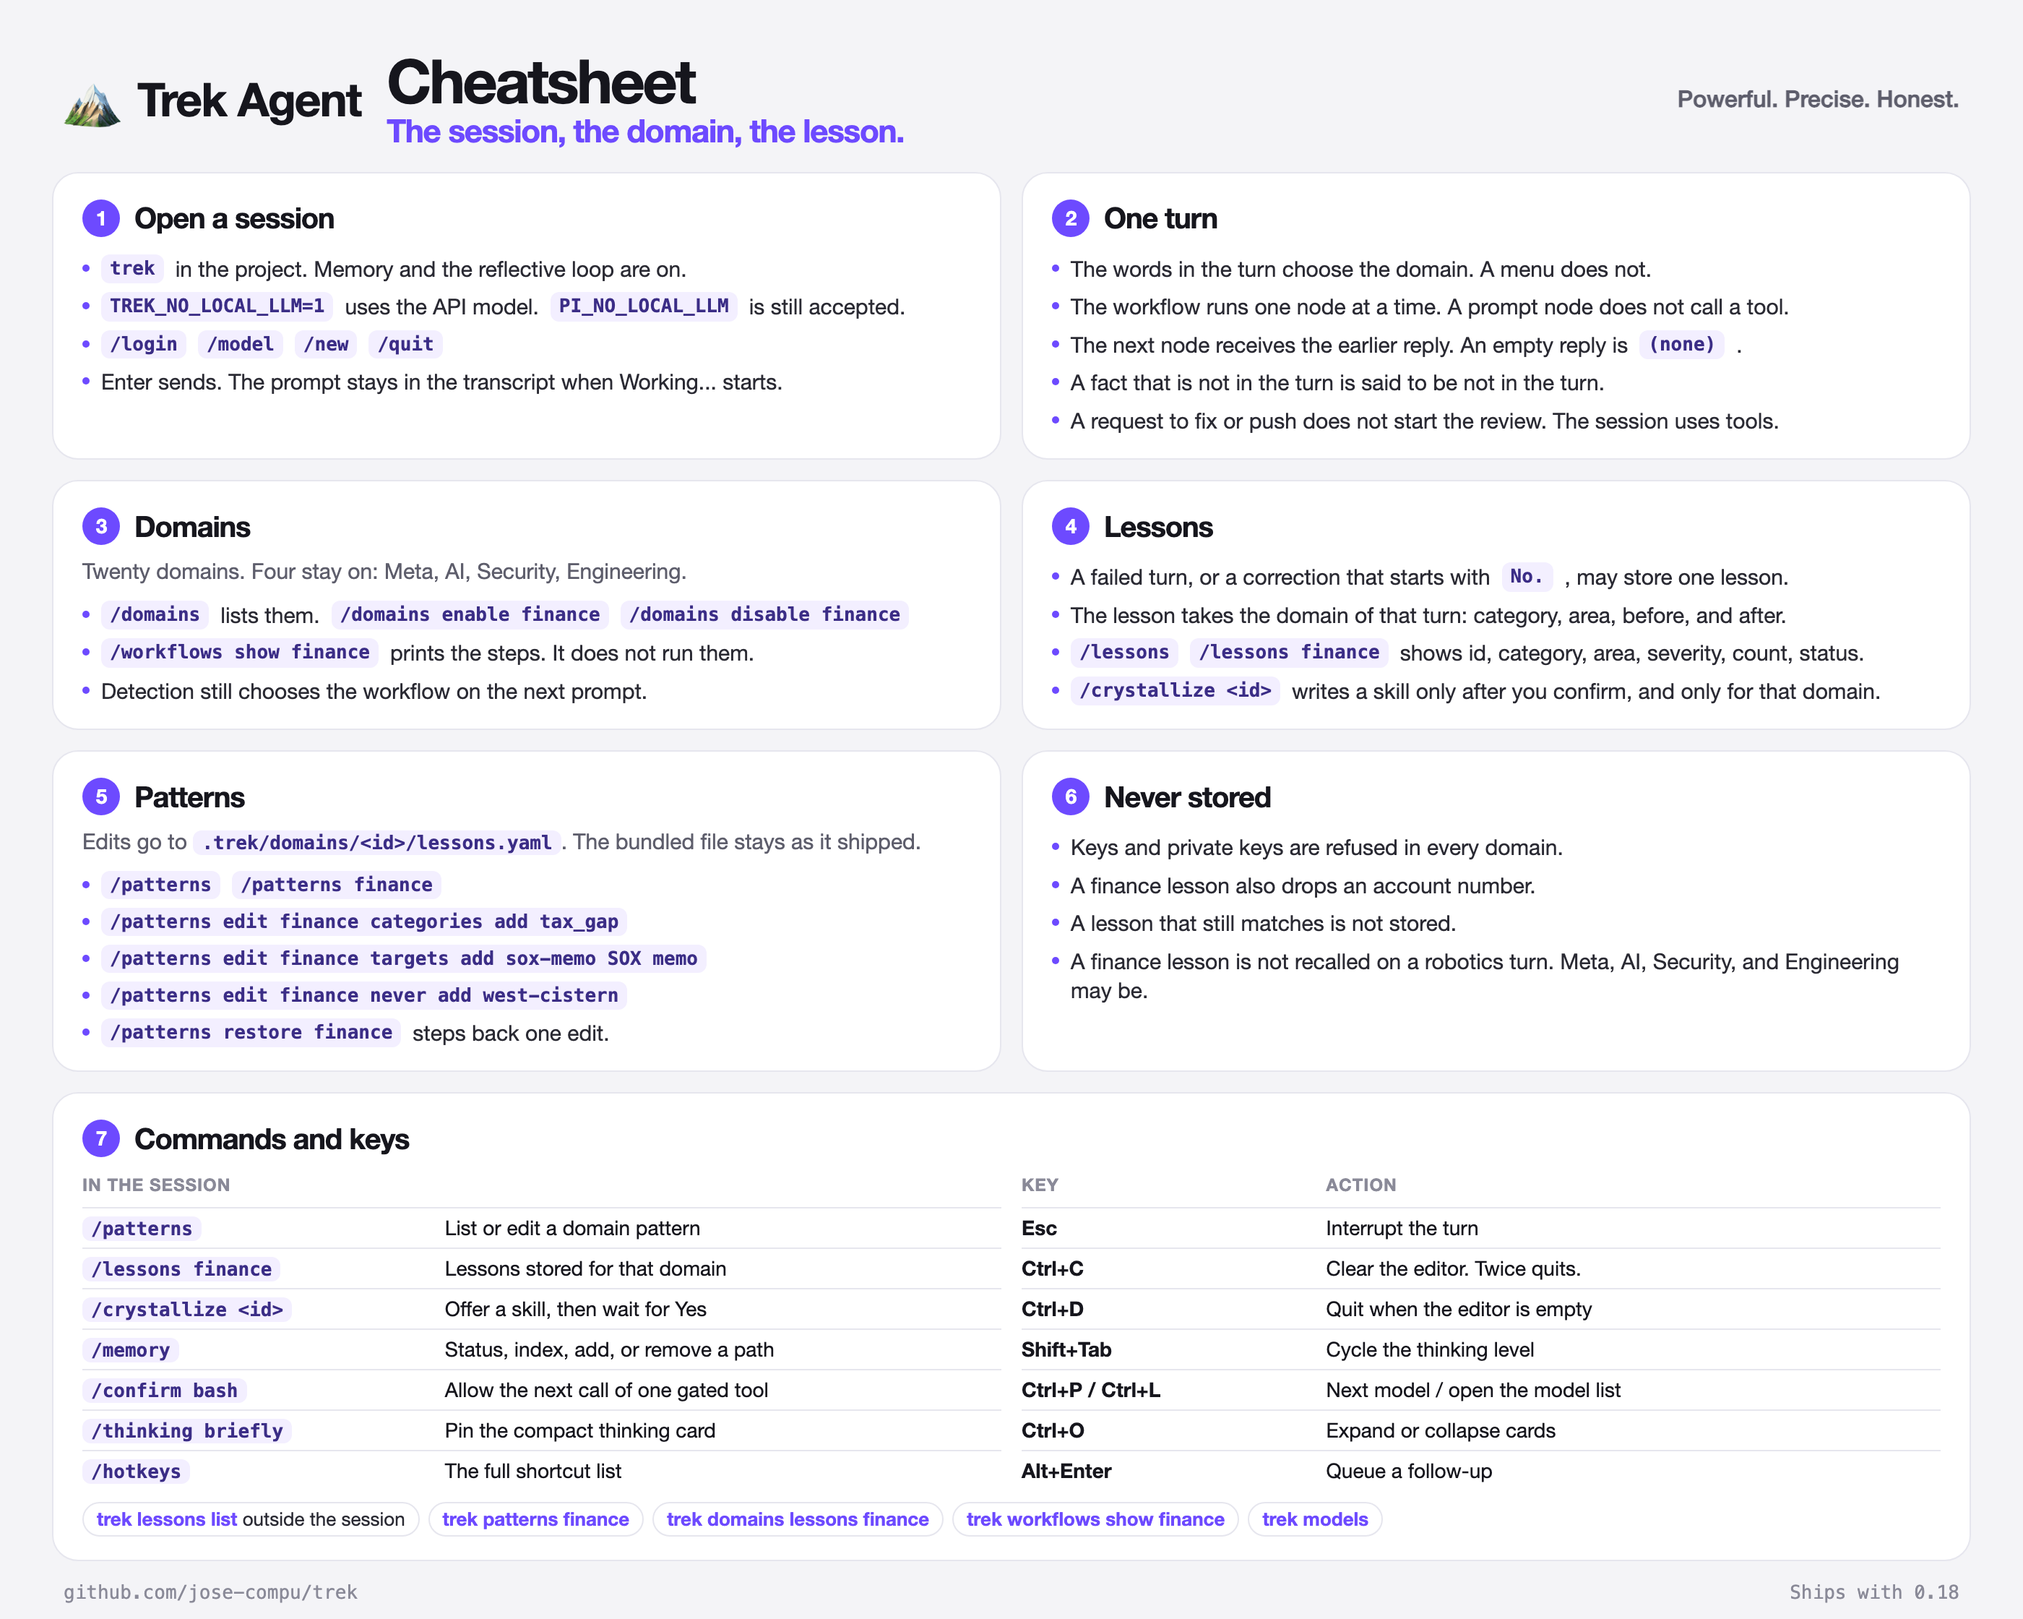
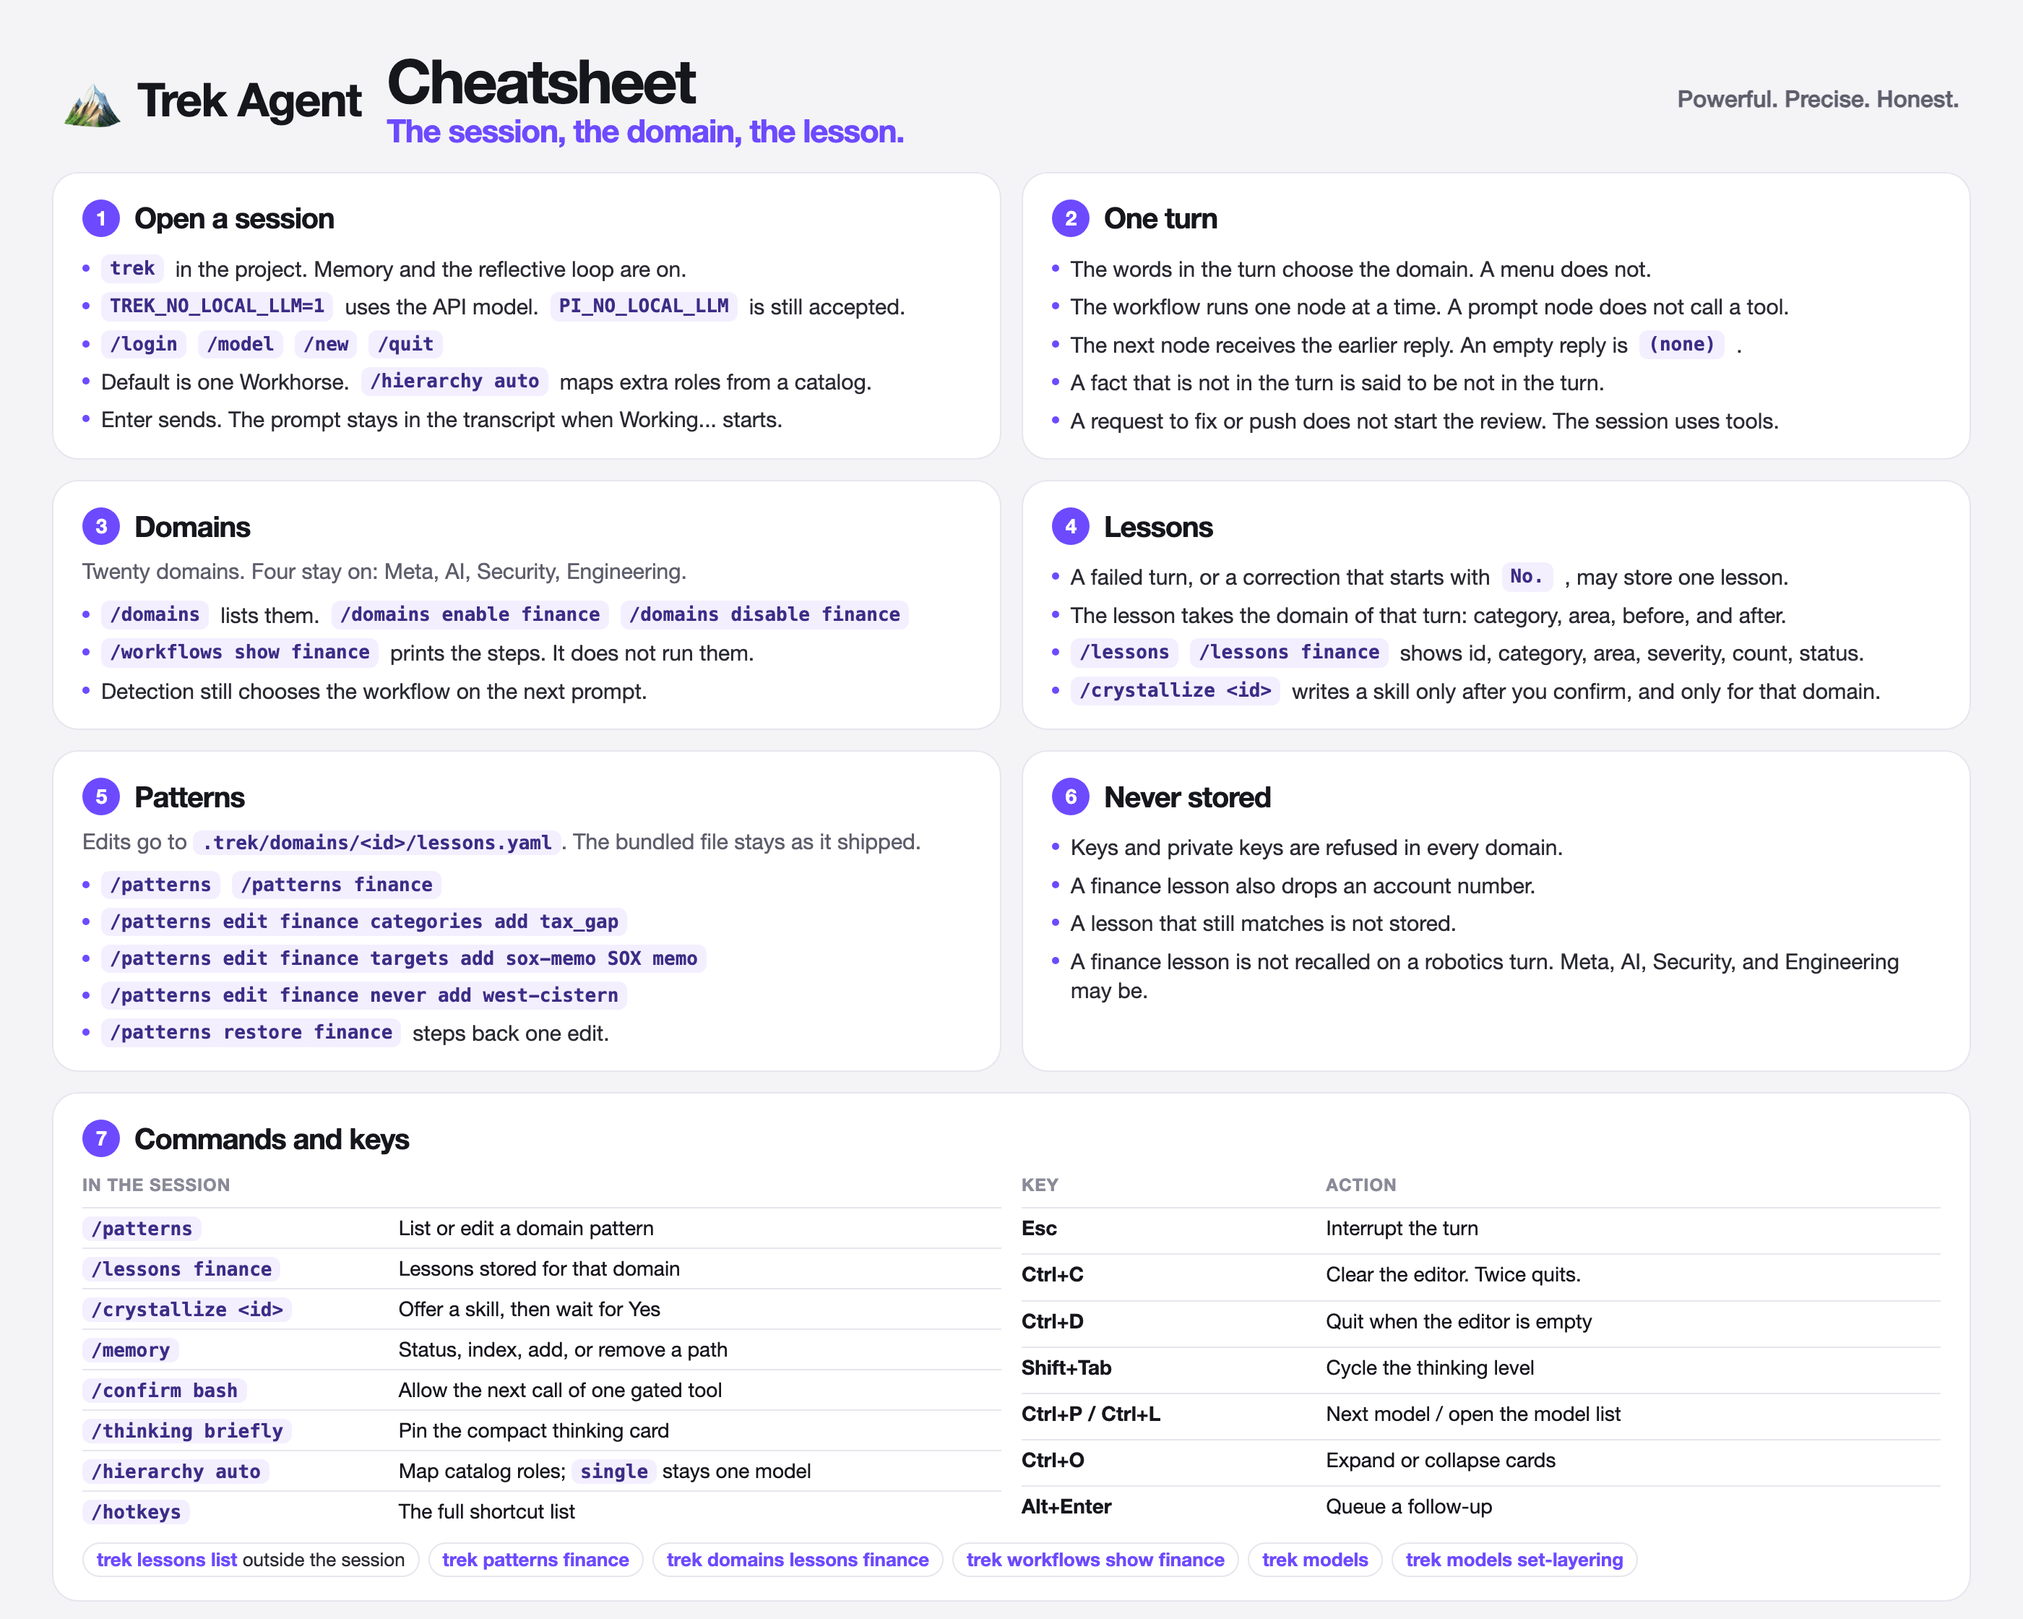
Release v0.18.0
Ship Layering: optional stack, Tooling off the climb, thinking briefly, domain compose, and domain lessons on climb. Banner and package versions move to 0.18.0. GitHub release only.

Changed region(s): [[0.0311, 0.75, 0.8079, 1.0], [0.0621, 0.2188, 0.435, 0.2812]]

diff --git a/assets/banner.html b/assets/banner.html
@@ -2,7 +2,7 @@
 <html lang="en">
 <head>
 <meta charset="utf-8" />
-<title>Trek Agent 0.17</title>
+<title>Trek Agent 0.18</title>
 <style>
   :root {
     --void: #07070c;
@@ -135,17 +135,17 @@
       <div class="copy">
         <header class="head">
           <div class="lockup"><span class="emoji" aria-hidden="true">🏔</span> Trek Agent</div>
-          <div class="badge">v0.17.0</div>
+          <div class="badge">v0.18.0</div>
           <div class="tagline">Powerful. Precise. Honest.</div>
         </header>
-        <h1>Trek 0.17<span>Performance</span></h1>
-        <p class="sub">Compact cards, faster startup and JSONL, CI budgets. Several TUI sessions at once.</p>
+        <h1>Trek 0.18<span>Layering</span></h1>
+        <p class="sub">Optional stack. Workhorse ⇄ Planning ⇄ Frontier. Tooling is a runner. Thinking briefly.</p>
       </div>
       <div class="rail">
-        <div class="item"><strong>Compact</strong><span>1–4 lines, ctrl+o</span></div>
-        <div class="item"><strong>Cold-start</strong><span>Defer until needed</span></div>
-        <div class="item"><strong>Budgets</strong><span>CI latency gates</span></div>
-        <div class="item"><strong>Concurrent</strong><span>Several TUI sessions</span></div>
+        <div class="item"><strong>Single</strong><span>One Workhorse</span></div>
+        <div class="item"><strong>Auto</strong><span>/hierarchy auto</span></div>
+        <div class="item"><strong>Climb</strong><span>Workhorse ⇄ Planning</span></div>
+        <div class="item"><strong>Brief</strong><span>/thinking briefly</span></div>
       </div>
       <div class="foot">Release <b>github.com/jose-compu/trek</b></div>
     </div>

diff --git a/assets/cheatsheet.html b/assets/cheatsheet.html
@@ -168,6 +168,7 @@
           <li><code>trek</code> in the project. Memory and the reflective loop are on.</li>
           <li><code>TREK_NO_LOCAL_LLM=1</code> uses the API model. <code>PI_NO_LOCAL_LLM</code> is still accepted.</li>
           <li><code>/login</code> <code>/model</code> <code>/new</code> <code>/quit</code></li>
+          <li>Default is one Workhorse. <code>/hierarchy auto</code> maps extra roles from a catalog.</li>
           <li>Enter sends. The prompt stays in the transcript when Working... starts.</li>
         </ul>
       </section>
@@ -231,6 +232,7 @@
               <tr><td><code>/memory</code></td><td>Status, index, add, or remove a path</td></tr>
               <tr><td><code>/confirm bash</code></td><td>Allow the next call of one gated tool</td></tr>
               <tr><td><code>/thinking briefly</code></td><td>Pin the compact thinking card</td></tr>
+              <tr><td><code>/hierarchy auto</code></td><td>Map catalog roles; <code>single</code> stays one model</td></tr>
               <tr><td><code>/hotkeys</code></td><td>The full shortcut list</td></tr>
             </tbody>
           </table>
@@ -253,6 +255,7 @@
           <span class="chip"><b>trek domains lessons finance</b></span>
           <span class="chip"><b>trek workflows show finance</b></span>
           <span class="chip"><b>trek models</b></span>
+          <span class="chip"><b>trek models set-layering</b></span>
         </div>
       </section>
     </div>

diff --git a/README.md b/README.md
@@ -1,6 +1,6 @@
-![Trek Agent 0.17 Performance — 🏔](./assets/banner-0.17.png)
+![Trek Agent 0.18 Layering — 🏔](./assets/banner-0.18.png)
 
-# Trek Agent v0.17.0
+# Trek Agent v0.18.0
 
 Trek is a **hard fork of the [Pi Coding Agent](https://pi.dev/)** — the minimal terminal coding agent with read, bash, edit, write tools, sessions, and a TypeScript extension ecosystem.
 
@@ -20,16 +20,17 @@ Pi optimizes for simplicity and adaptability: you extend it with plugins rather 
 | **Learning** | A lesson after a failed turn, typed by domain, recalled only there, and a skill only after you confirm | **0.14.0** → **0.15.0 Domain Learning** |
 | **Console** | Hierarchy ladder with escalate, `/hierarchy`, Terminal.app chords, bash recipes, benchmark | **0.16.0 Console** |
 | **Performance** | Compact 1–4 line cards (`ctrl+o`), cold-start and write-path cuts, CI latency budgets | **0.17.0 Performance** |
+| **Layering** | Optional stack (`single` / `auto` / `manual`). Climb is Workhorse ⇄ Planning ⇄ Frontier. Tooling is a runner. `/thinking briefly` | **0.18.0 Layering** |
 
 Every user turn follows **Observe → Intend → Act → Reflect** (O→I→A→R). Safety checks wrap **Act**. During **Intend**, Trek detects the work domain from that task context and selects the workflow the context needs. The next turn detects again. Traces and audit metadata accumulate over time so behavior is inspectable, not opaque.
 
 Pi compatibility is preserved: community packages from [pi.dev/packages](https://pi.dev/packages) install with `trek install npm:<package>`. See [Pi Coding Agent plugins](#pi-coding-agent-plugins) below.
 
-**Version:** 0.17.0 — see [CHANGELOG.md](./CHANGELOG.md). Full plan: [ROADMAP.md](../ROADMAP.md). GitHub release only.
+**Version:** 0.18.0 — see [CHANGELOG.md](./CHANGELOG.md). Full plan: [ROADMAP.md](../ROADMAP.md). GitHub release only.
 
 ## Status
 
-**0.17.0 Performance** is current on GitHub. npm stays **0.16.1**. Compact cards (`ctrl+o`), faster startup and JSONL, CI budgets, several TUI sessions at once. Local and hybrid sessions park on Decision (d1), climb and descalate Tooling → Workhorse → Planning → Frontier, and may solve structured turns at Decision (or invent a Decision pack via Tooling). `/hierarchy` sets the mix. Footer chords work in Terminal.app. Bash recipes and `trek models benchmark` ship. **0.15.1** stopped a fix/push/unblock prompt from starting the engineering review. **0.15.0** types a lesson by its domain and recalls it only there. `/patterns` edits the pattern. `/crystallize` writes a domain skill only after you confirm. A workflow node calls a tool only when that node allows it. **0.14.1** shows the honesty line, a stored lesson, and Working... as soon as there is something to report. Shortcut keys, the branch, and the model name use a quiet accent. **0.14.0** runs up to four branches at once. A failed turn stores a lesson. `/crystallize` writes a skill only after you confirm. **0.13.1** `/domains` turns a domain on or off for the next prompt. A workflow reply that skips a node, or adds a fact that is not in the turn, is marked on that turn. **0.13.0** added operator modes. `--operator-mode` chooses supervised, delegated, checkpoint, diagnostic, or ask. Ask answers and may read. It does not write. The laws stay in force. A selected Archon workflow is called one node at a time. An ambiguous prompt asks one question. On Telegram, a guest may talk and cannot run tools. **0.12.0** draws a green workflow call. Domain commands are in [Domains](#domains). **0.11.0** memory is documented in [Memory](#memory). **0.10.0** runs independent reads, and edits of different files, together. `trek processes` prints the seeded tree. `--effort loose` multiplies the effort stops by 10, and `--effort off` does not stop the turn for effort. **0.9.1** hides an edit that already matches the file. **0.9.0** routes each component, keeps same-file edits from colliding, and stops a prompt that repeats a failed command or a no-op edit. **0.8.1** updated production dependencies flagged by `npm audit`. **0.8.0** made remote API the default and kept llama.cpp opt-in. **0.7.0 Audit** shipped the session seed (default `42`), `default` / `strict_audit` modes, per-step `trek:audit_step` records, and honest warnings when a provider cannot honor seed. Bit-exact replay is not claimed on closed APIs or on GPU llama.cpp. Artifact files under `.trek/versions/` are local history (keep them out of git; labeled commits are the git undo layer).
+**0.18.0 Layering** is current on GitHub. npm stays **0.16.1**. Factory `layering: single` (one Workhorse). `/hierarchy auto` maps Tooling / Workhorse / Planning / Frontier from a catalog. Climb is Workhorse ⇄ Planning ⇄ Frontier; Tooling is a runner, not a rung. `/thinking briefly`. A domain DAG and a `layer-*` DAG may run on the same turn. Lessons stay domain-typed. **0.17.0** compact cards (`ctrl+o`), faster startup and JSONL, CI budgets, several TUI sessions at once. Local and hybrid sessions park on Decision (d1), climb and descalate Tooling → Workhorse → Planning → Frontier, and may solve structured turns at Decision (or invent a Decision pack via Tooling). `/hierarchy` sets the mix. Footer chords work in Terminal.app. Bash recipes and `trek models benchmark` ship. **0.15.1** stopped a fix/push/unblock prompt from starting the engineering review. **0.15.0** types a lesson by its domain and recalls it only there. `/patterns` edits the pattern. `/crystallize` writes a domain skill only after you confirm. A workflow node calls a tool only when that node allows it. **0.14.1** shows the honesty line, a stored lesson, and Working... as soon as there is something to report. Shortcut keys, the branch, and the model name use a quiet accent. **0.14.0** runs up to four branches at once. A failed turn stores a lesson. `/crystallize` writes a skill only after you confirm. **0.13.1** `/domains` turns a domain on or off for the next prompt. A workflow reply that skips a node, or adds a fact that is not in the turn, is marked on that turn. **0.13.0** added operator modes. `--operator-mode` chooses supervised, delegated, checkpoint, diagnostic, or ask. Ask answers and may read. It does not write. The laws stay in force. A selected Archon workflow is called one node at a time. An ambiguous prompt asks one question. On Telegram, a guest may talk and cannot run tools. **0.12.0** draws a green workflow call. Domain commands are in [Domains](#domains). **0.11.0** memory is documented in [Memory](#memory). **0.10.0** runs independent reads, and edits of different files, together. `trek processes` prints the seeded tree. `--effort loose` multiplies the effort stops by 10, and `--effort off` does not stop the turn for effort. **0.9.1** hides an edit that already matches the file. **0.9.0** routes each component, keeps same-file edits from colliding, and stops a prompt that repeats a failed command or a no-op edit. **0.8.1** updated production dependencies flagged by `npm audit`. **0.8.0** made remote API the default and kept llama.cpp opt-in. **0.7.0 Audit** shipped the session seed (default `42`), `default` / `strict_audit` modes, per-step `trek:audit_step` records, and honest warnings when a provider cannot honor seed. Bit-exact replay is not claimed on closed APIs or on GPU llama.cpp. Artifact files under `.trek/versions/` are local history (keep them out of git; labeled commits are the git undo layer).
 
 ## Memory
 

diff --git a/AGENTS.md b/AGENTS.md
@@ -172,7 +172,7 @@ Current sheet:
 - **Lessons.** A failed turn, or a correction that starts with `No.`, may store one lesson in that turn's domain. `/lessons` and `/lessons finance`. `/crystallize <id>` writes a skill only after Yes, and only for that domain.
 - **Patterns.** Edits go to `.trek/domains/<id>/lessons.yaml`. `/patterns`, `/patterns finance`, `/patterns edit finance categories add tax_gap`, `/patterns edit finance targets add sox-memo SOX memo`, `/patterns edit finance never add west-cistern`, `/patterns restore finance`.
 - **Never stored.** Keys and private keys are refused in every domain. A finance lesson also drops an account number. A matching lesson is not stored. A finance lesson is not recalled on a robotics turn. Meta, AI, Security, and Engineering may be.
-- **Commands.** `/patterns`, `/lessons finance`, `/crystallize <id>`, `/memory`, `/confirm bash`, `/thinking briefly`, `/hotkeys`.
+- **Commands.** `/patterns`, `/lessons finance`, `/crystallize <id>`, `/memory`, `/confirm bash`, `/thinking briefly`, `/hierarchy auto`, `/hotkeys`.
 - **Keys.** Esc interrupts. Ctrl+C clears the editor and twice quits. Ctrl+D quits when the editor is empty. Shift+Tab cycles thinking. Ctrl+P cycles the model. Ctrl+L opens the model list. Ctrl+O expands compact cards. Alt+Enter queues a follow-up.
 - **Outside the session.** `trek lessons list`, `trek patterns finance`, `trek domains lessons finance`, `trek workflows show finance`, `trek models`.
 

diff --git a/packages/coding-agent/docs/index.md b/packages/coding-agent/docs/index.md
@@ -57,7 +57,7 @@ For the full first-run flow, see [Quickstart](quickstart.md).
 - [Themes](themes.md) - built-in and custom terminal themes.
 - [Pi packages](packages.md) - bundle and share extensions, skills, prompts, and themes.
 - [Custom models](models.md) - add model entries for supported provider APIs.
-- [Hierarchy](hierarchy.md) - Decision → Workhorse ⇄ Planning ⇄ Frontier; Tooling is a runner.
+- [Hierarchy](hierarchy.md) - 0.18 layering (`single` / `auto` / `manual`). Climb is Workhorse ⇄ Planning ⇄ Frontier; Tooling is a runner.
 - [Custom providers](custom-provider.md) - implement custom APIs and OAuth flows.
 
 ## Programmatic usage

diff --git a/CHANGELOG.md b/CHANGELOG.md
@@ -1,10 +1,12 @@
 # Trek Changelog
 
-Monorepo release notes for **Trek Agent** (`trek-monorepo` @ `0.17.0`).
+Monorepo release notes for **Trek Agent** (`trek-monorepo` @ `0.18.0`).
 
 User-facing CLI details also live in [`packages/coding-agent/CHANGELOG.md`](packages/coding-agent/CHANGELOG.md) (shown at startup via `/changelog`). Package-specific histories: `packages/{ai,agent,tui}/CHANGELOG.md` (Pi upstream; Trek renames only where noted).
 
 ## [Unreleased]
+
+## [0.18.0] - 2026-11-07
 
 ### Added
 

diff --git a/packages/coding-agent/CHANGELOG.md b/packages/coding-agent/CHANGELOG.md
@@ -4,6 +4,8 @@ Release notes for `@trek/coding-agent`. Upstream Pi history lives in the parent 
 
 ## [Unreleased]
 
+## [0.18.0] - 2026-11-07
+
 ### Added
 
 - Domain lessons stay typed when roles climb. Workhorse writes. Meta triggers `misroute|over_escalate|over_think|runner_miss|verifier_reject|budget_stop`. Recall injects into the acting role. L1 still needs confirm ([#189](https://github.com/jose-compu/trek/issues/189)).

diff --git a/packages/agent/CHANGELOG.md b/packages/agent/CHANGELOG.md
@@ -2,6 +2,8 @@
 
 ## [Unreleased]
 
+## [0.18.0] - 2026-11-07
+
 ## [0.17.0] - 2026-11-07
 
 ## [0.16.1] - 2026-10-31

diff --git a/packages/ai/CHANGELOG.md b/packages/ai/CHANGELOG.md
@@ -2,6 +2,8 @@
 
 ## [Unreleased]
 
+## [0.18.0] - 2026-11-07
+
 ## [0.17.0] - 2026-11-07
 
 ## [0.16.1] - 2026-10-31

diff --git a/packages/tui/CHANGELOG.md b/packages/tui/CHANGELOG.md
@@ -2,6 +2,8 @@
 
 ## [Unreleased]
 
+## [0.18.0] - 2026-11-07
+
 ## [0.17.0] - 2026-11-07
 
 ## [0.16.1] - 2026-10-31
